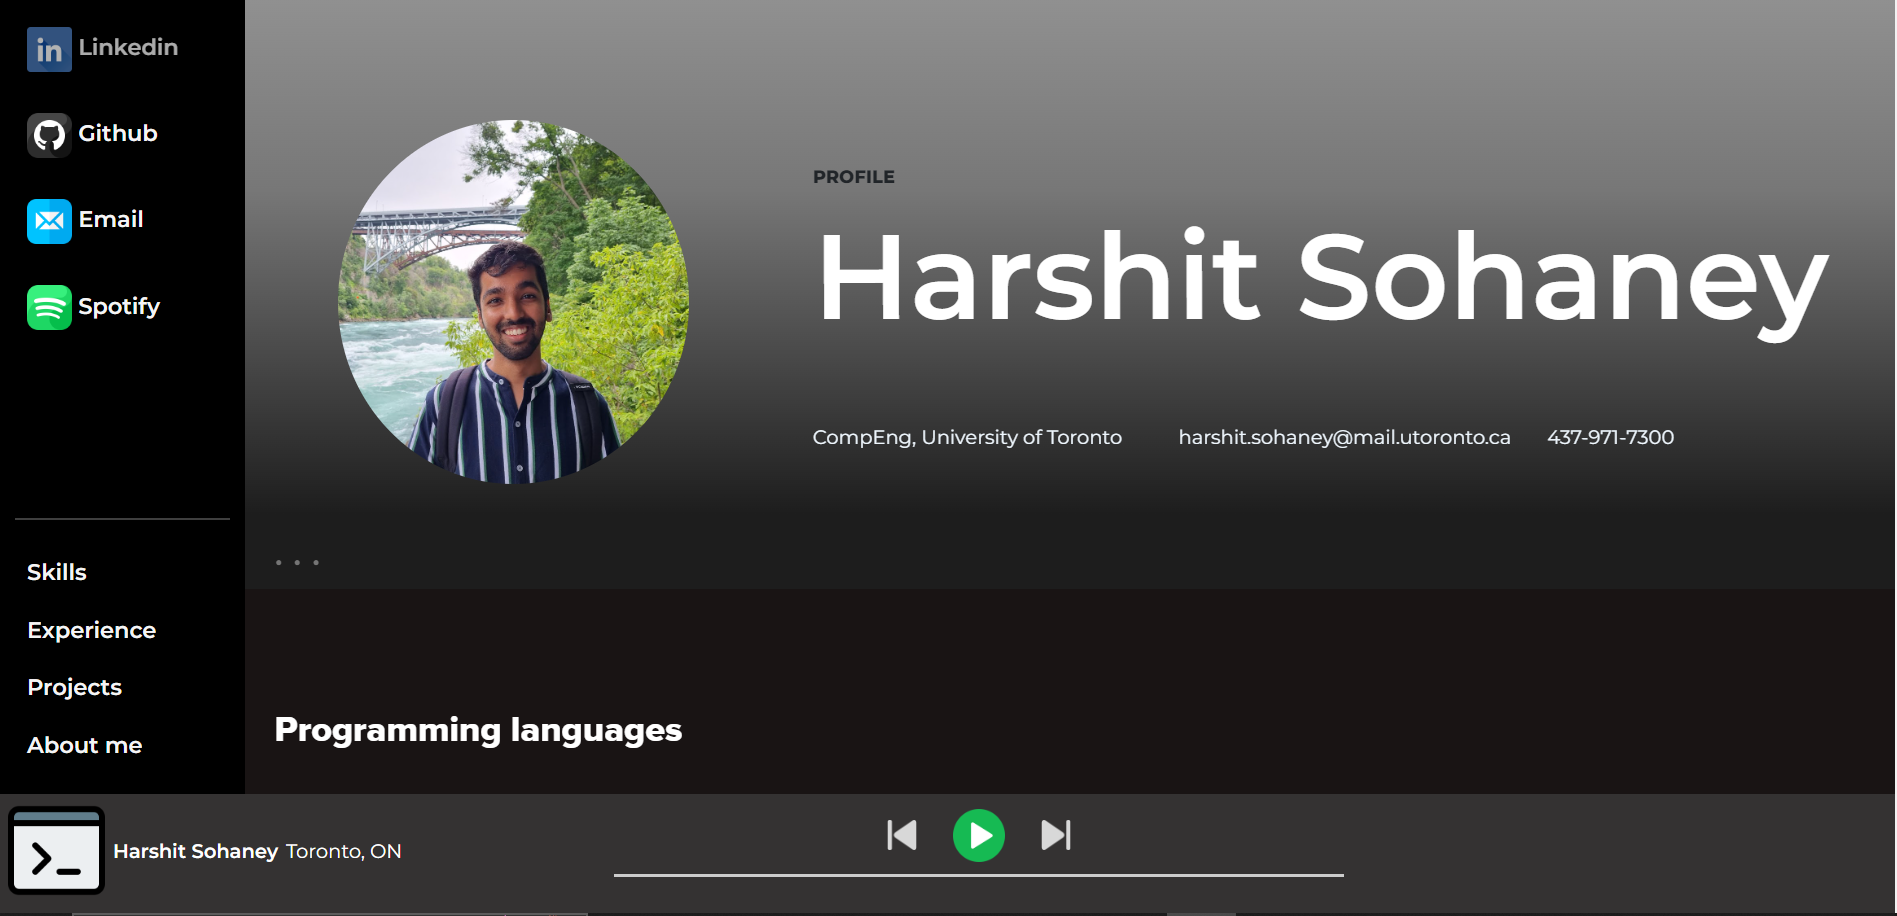
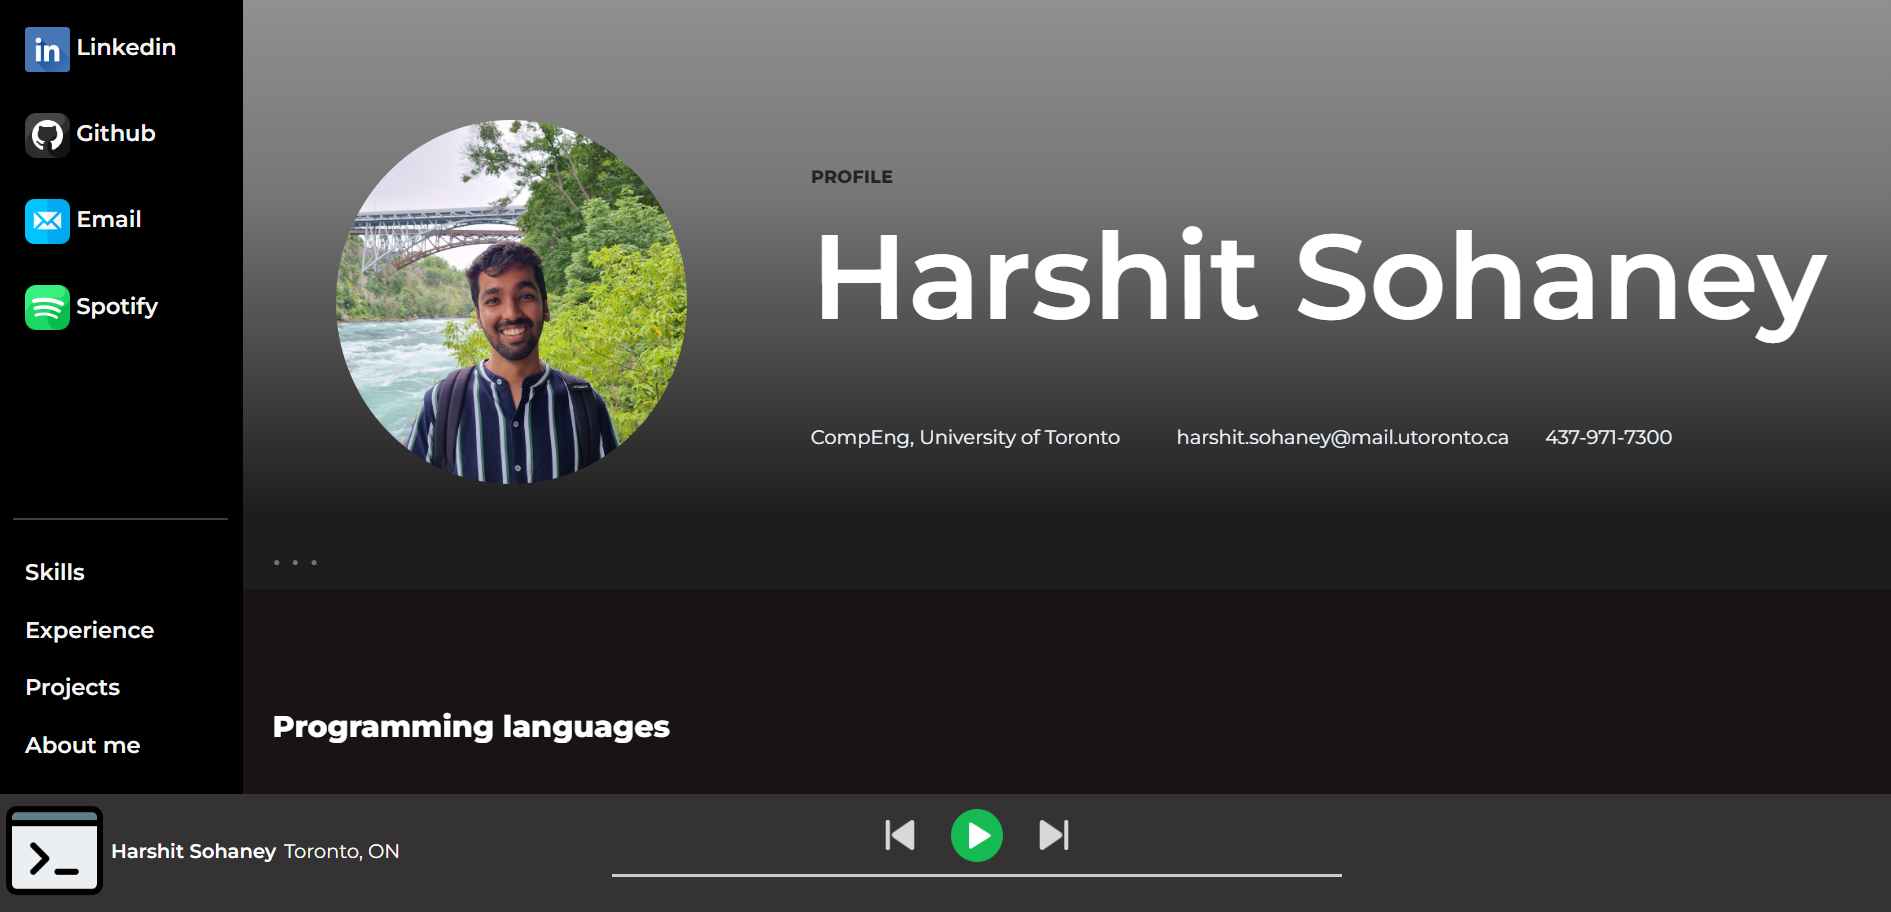
Made chnges for mobile view

diff --git a/css/heroSection.css b/css/heroSection.css
@@ -4,7 +4,7 @@
 }
 .gray-bg {
   background: rgb(29,29,29);
-background: linear-gradient(0deg, rgba(29,29,29,1) 0%, rgba(119,119,119,1) 63%, rgba(144,144,144,1) 100%);
+  background: linear-gradient(0deg, rgba(29,29,29,1) 0%, rgba(119,119,119,1) 63%, rgba(144,144,144,1) 100%);
 }
 .hero-img {
   max-width: 80%;
@@ -25,7 +25,7 @@ background: linear-gradient(0deg, rgba(29,29,29,1) 0%, rgba(119,119,119,1) 63%, 
   font-size: 80px;
   font-weight: 600;
   margin: 10px 0 30px;
-  font-family: montserrat;
+  font-family: 'Montserrat';
 }
 
 .about-text h3 {
@@ -34,10 +34,10 @@ background: linear-gradient(0deg, rgba(29,29,29,1) 0%, rgba(119,119,119,1) 63%, 
   font-size: 12px;
 }
 @media (max-width: 767px) {
-.about-text h3 {
-  font-size: 35px;
-  font-weight: 1000;
-}
+  .about-text h3 {
+    font-size: 35px;
+    font-weight: 1000;
+  }
 }
 .about-text h6 {
   font-weight: 600;
@@ -45,9 +45,9 @@ background: linear-gradient(0deg, rgba(29,29,29,1) 0%, rgba(119,119,119,1) 63%, 
   font-size: 10px;
 }
 @media (max-width: 767px) {
-.about-text h6 {
-  font-size: 18px;
-}
+  .about-text h6 {
+    font-size: 18px;
+  }
 }
 .about-text p {
   font-size: 18px;
@@ -72,22 +72,17 @@ color: #20247b;
 }
 
 @media (max-width: 991px) {
-.about-avatar {
-  margin-top: 30px;
-  border-radius: 50%;
-}
+  .about-avatar {
+    margin-top: 30px;
+    border-radius: 50%;
+  }
+  .about-text {
+    font-size:40px;
+  }
 }
 .theme-color {
   color: #fc5356;
 }
 .dark-color {
   color: #ffffff;
-}
-
-.dot {
-  height: 5px;
-  width: 5px;
-  background-color: #bbb;
-  border-radius: 50%;
-  display: inline-block;
 }

diff --git a/css/stylesheet.css b/css/stylesheet.css
@@ -100,6 +100,19 @@
   .row.content {height:auto;} 
 }
 
+@media screen and (max-width: 550px) {
+  .footer-info {
+    display:none;
+  }
+  .Nav {
+    display: fixed;
+  }
+  .container-grid{
+    width: 900px;
+  }
+
+}
+
 h4 {
   font-weight: 700;
   font-family: 'Montserrat', sans-serif;

diff --git a/css/skillsSection.css b/css/skillsSection.css
@@ -35,7 +35,4 @@ h5 {
 
 .container-box {
     border-radius: 6px;
-    background-color: black;
-    max-height: 200px;
-    max-width: 200px;
 }
